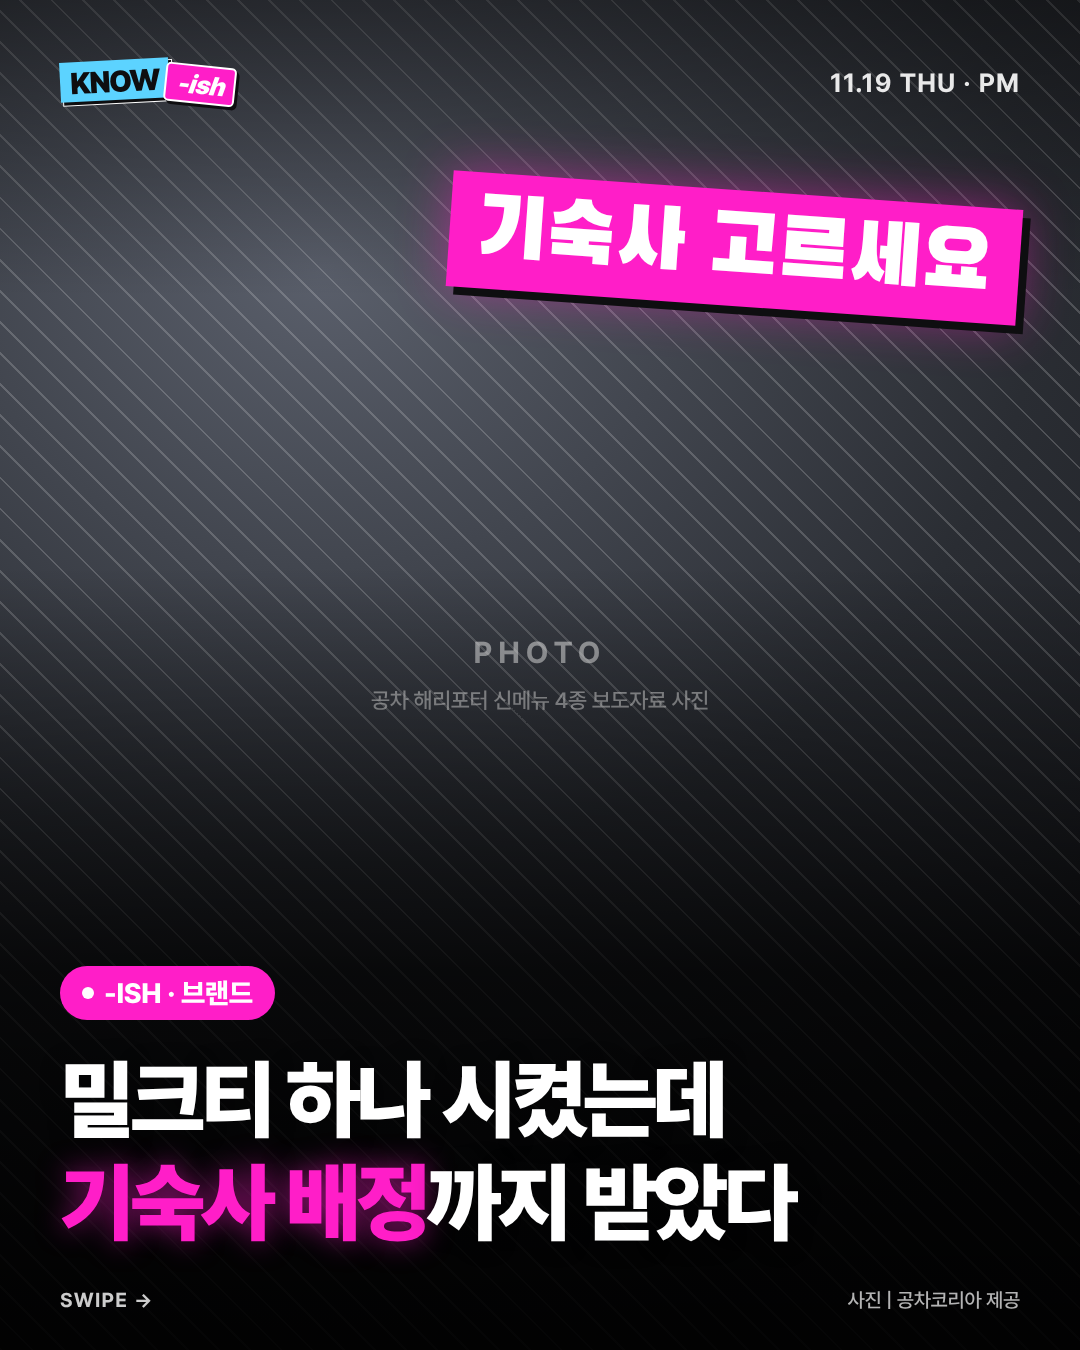
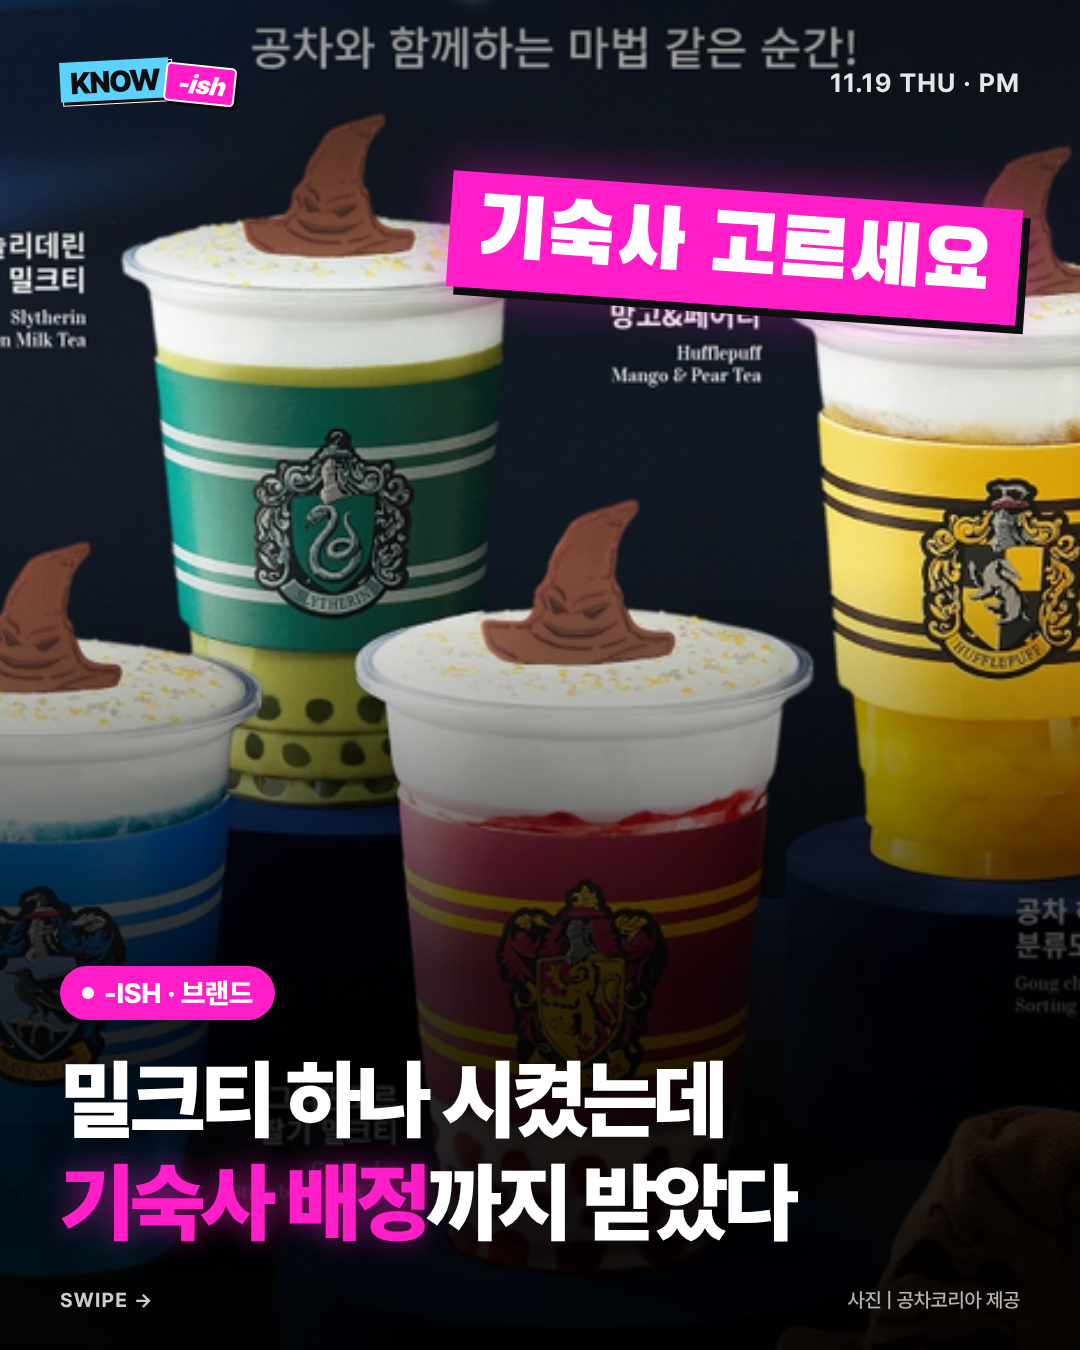
2026-11-19-pm 승인: 공차 보도자료 사진 반영, 수동 업로드 패키지
- 템플릿 image.pos/fit/bg 지원
- fetch-image: 프록시 환경 자동 대응
- 런북 이미지 규칙 보완

Claude-Session: https://claude.ai/code/session_019qCDgtKUUxWTJuWU3cPXKC

diff --git a/onoff/AUTOMATION.md b/onoff/AUTOMATION.md
@@ -55,12 +55,13 @@
 | 우선순위 | 소스 | 비고 |
 |---|---|---|
 | 1 | 정책브리핑 korea.kr 사진 (공공누리 제1유형) | 정부·정책·경제 이슈. credit `대한민국 정책브리핑`, license `공공누리 제1유형` |
-| 2 | 기업 공식 보도자료·뉴스룸 사진 | 해당 브랜드 사례일 때. credit `<기업명> 제공`, license `보도자료` |
+| 2 | 기업 공식 보도자료·뉴스룸 사진 | 해당 브랜드 사례일 때. 기사에 `<기업명> 제공`으로 실린 보도자료 사진은 기사 URL로 받아도 됨(og:image). credit `<기업명> 제공`, license `보도자료` |
 | 3 | Wikimedia Commons (CC BY / CC BY-SA / PD) | 건물·인물·장소. credit 에 저작자, license 에 라이선스명 |
 | 4 | Unsplash | 일반 이미지(돈, 도시, 사무실 등). credit `Unsplash / 작가명`, license `Unsplash License` |
 
 - 언론사(연합뉴스 등) 사진은 **쓰지 않는다** — 유료 라이선스.
-- 내려받기: `node src/fetch-image.mjs <이미지 또는 페이지 URL> posts/<id>/images/01`
+- 내려받기: `node src/fetch-image.mjs <이미지 또는 페이지 URL> posts/<id>/images/01` (프록시 환경이면 스크립트가 알아서 프록시로 다시 실행)
+- 사진에 원래 들어 있는 글자가 스티커·제목과 겹치면 다른 사진을 쓰거나 `image.pos`(예: `"center 70%"`)로 위치를 옮긴다. 포스터형 이미지는 `"fit": "contain"` 도 가능.
 - `content.json` 의 해당 슬라이드 `image` 에 `src`(저장 경로, onoff/ 기준), `credit`, `license` 를 채운다.
 - 이모지·일러스트가 필요한 자리(주로 -ISH)는 AI 생성 이미지 가능 — license `AI 생성`.
 - 이미지를 못 구하면 `src` 를 비워 두고(회색 자리) 검수 요청 때 알린다. 가짜·무단 이미지로 채우지 않는다.
@@ -86,7 +87,7 @@ node src/build.mjs posts/<id>
   2. `node src/publish.mjs posts/<id> --dry-run` 으로 URL·캡션 확인.
   3. `node src/publish.mjs posts/<id>` 실행.
   4. 결과(permalink)를 커밋·push 하고 사용자에게 알린다.
-- 게시에 필요한 설정이 아직 없으면(아래) 게시는 건너뛰고, 사용자에게 **수동 업로드용 파일**(slides 폴더 + 캡션)을 보낸다.
+- 게시에 필요한 설정이 아직 없으면(아래) 게시는 건너뛰고, `caption.txt` 를 만들어 사용자에게 **수동 업로드용 파일**(slides/01~NN.png + caption.txt)을 보낸다.
 
 ## 게시에 필요한 설정 (최초 1회)
 - `docs/INSTAGRAM_SETUP.md` 를 따라 비즈니스 계정·토큰·`IG_USER_ID` 준비

diff --git a/onoff/posts/2026-11-19-pm/review.md b/onoff/posts/2026-11-19-pm/review.md
@@ -2,7 +2,7 @@
 
 - 게시물: `2026-11-19-pm` (슬라이드 6장, 게시 예정 18:00 KST)
 - 형식 검사: 통과
-- 실사 이미지: ⚠ 3장 미지정
+- 실사 이미지: 모두 지정
 
 ## 캡션
 ```
@@ -26,10 +26,11 @@ Ref. 디지털데일리, 더페어, 한국경제, 푸드투데이
 - https://www.hankyung.com/article/202611196622g
 - https://www.foodtoday.or.kr/news/article.html?no=209884
 - https://www.ggilbo.com/news/articleView.html?idxno=1192566
+- https://www.inthenews.co.kr/news/article.html?no=94496
 
 ## 이미지
-- 공차코리아 제공 · 보도자료 · ⚠ 미지정
-- 공차코리아 제공 · 보도자료 · ⚠ 미지정
-- 공차코리아 제공 · 보도자료 · ⚠ 미지정
+- 공차코리아 제공 · 보도자료
+- 공차코리아 제공 · 보도자료
+- 공차코리아 제공 · 보도자료
 
 승인하려면 이 세션에 **"승인"**, 수정하려면 바꿀 내용을 적어주세요.
